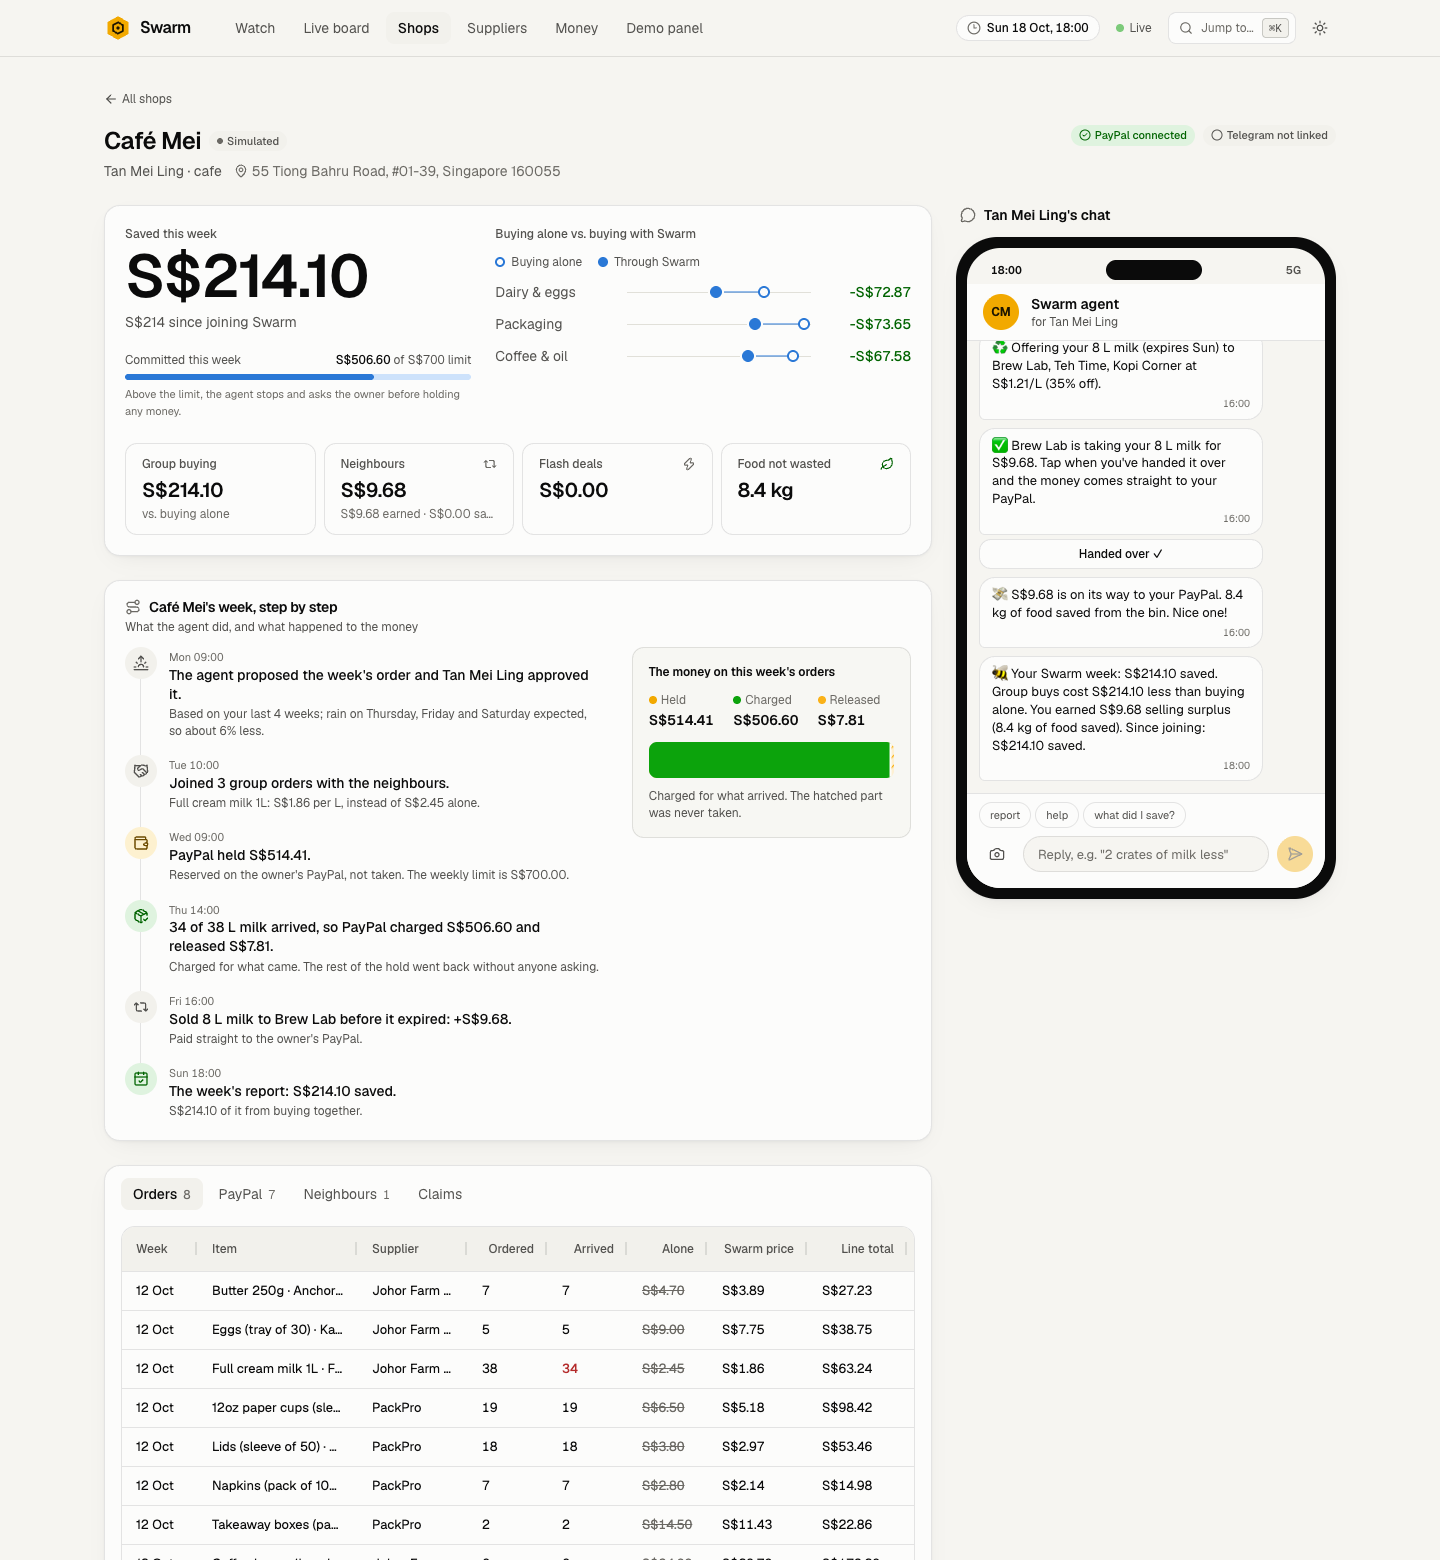
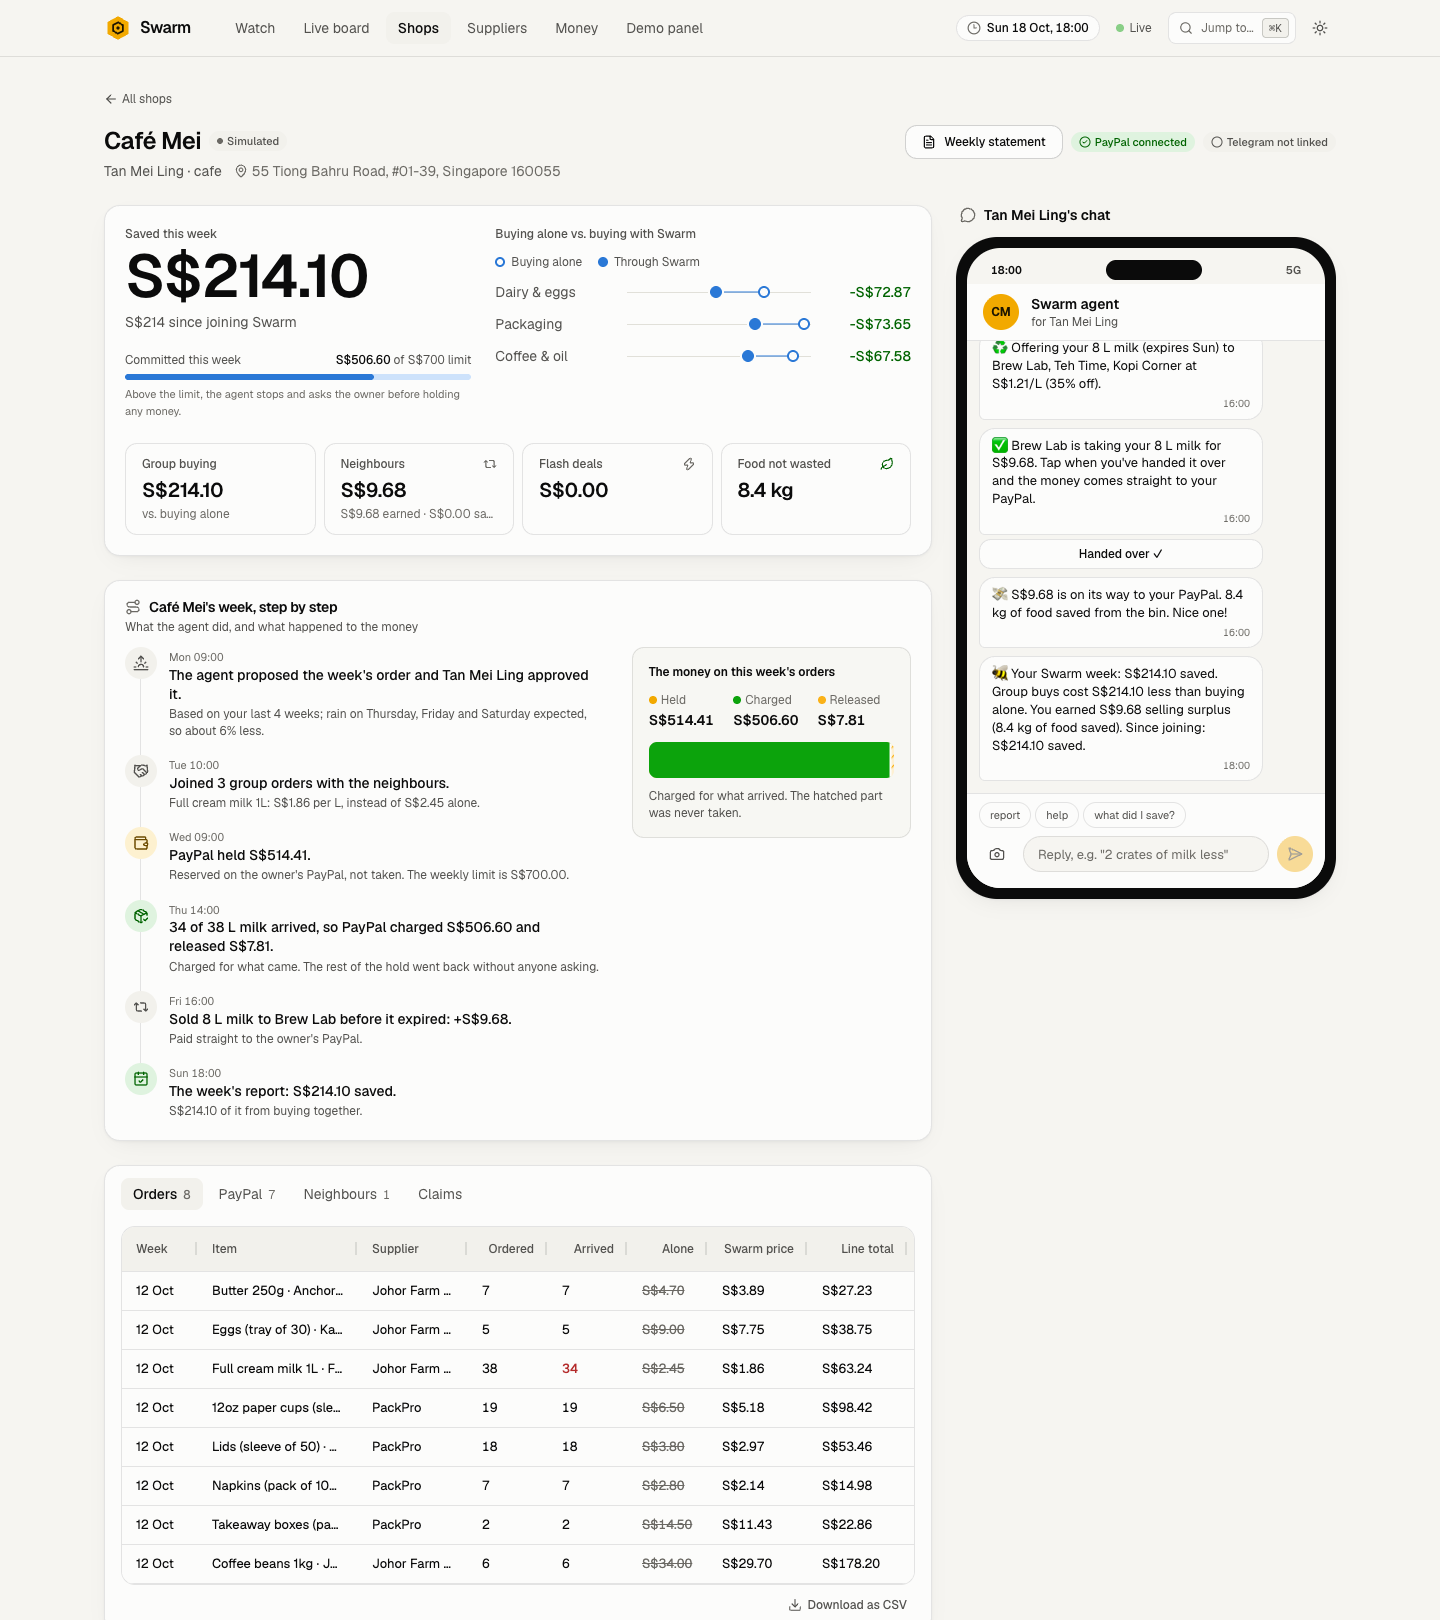
docs: statement and shop page screenshots

diff --git a/README.md b/README.md
@@ -84,8 +84,8 @@ food out of the bin. It takes 94 PayPal calls, and the books balance to the cent
 | ![Inspector](docs/screenshots/inspector.png) | ![PayPal capabilities with the calls behind them](docs/screenshots/paypal-capabilities.png) |
 | **Invoice check (supplier page)** | **Dark mode** |
 | ![Invoices](docs/screenshots/supplier-invoices.png) | ![Dark](docs/screenshots/live-board-dark.png) |
-| **Phone** | |
-| ![Phone](docs/screenshots/mobile-live.png) | |
+| **Weekly statement (as printed)** | **Phone** |
+| ![A shop's weekly statement](docs/screenshots/statement.png) | ![Phone](docs/screenshots/mobile-live.png) |
 
 _The submission video goes here._
 
